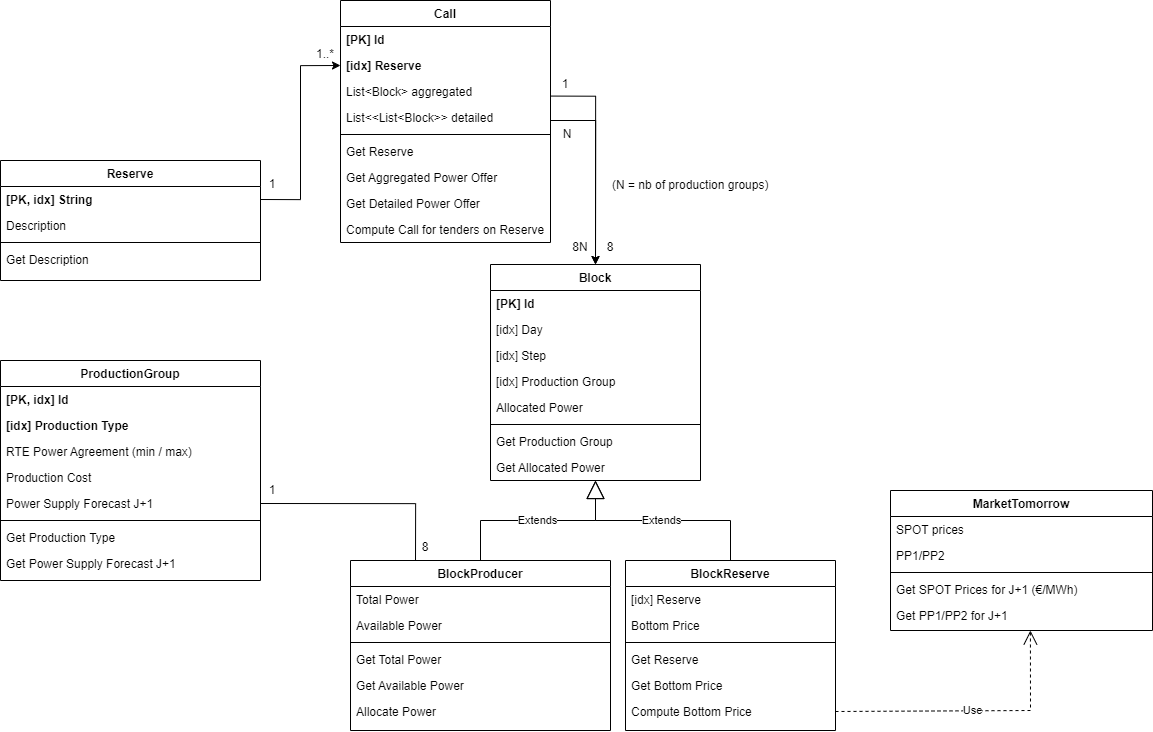
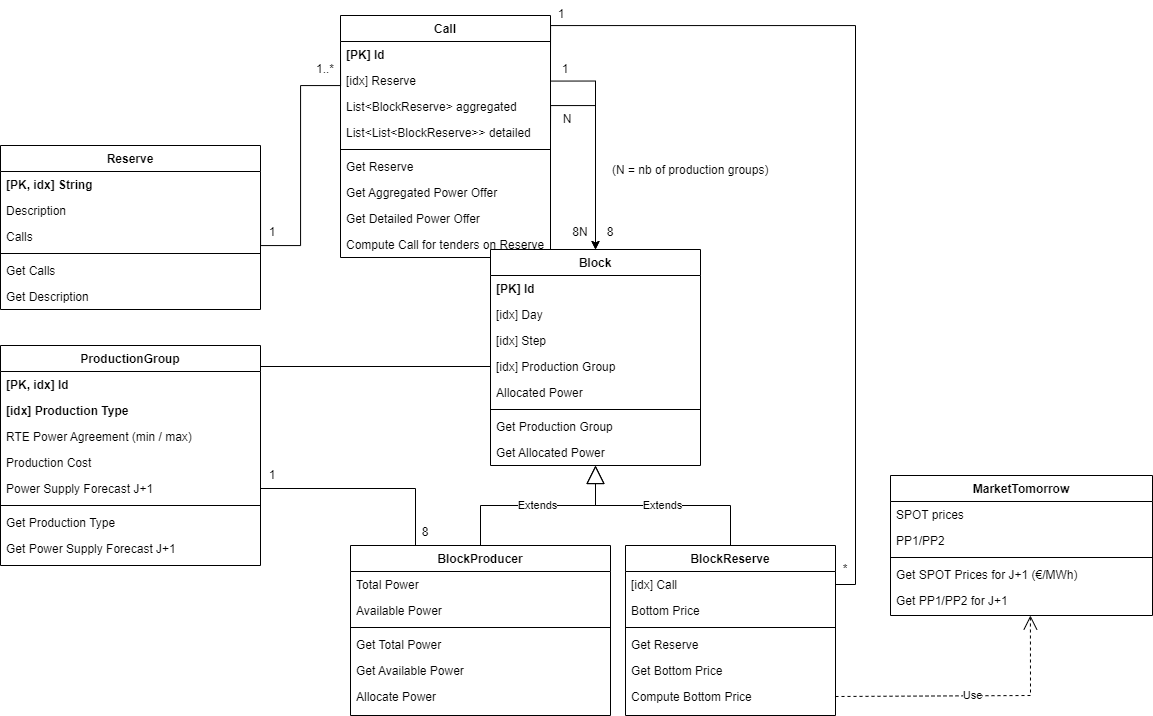
MDD

diff --git a/src/main/java/fr/agregio/call/model/Call.java b/src/main/java/fr/agregio/call/model/Call.java
@@ -1,0 +1,37 @@
+package fr.agregio.call.model;
+
+import jakarta.persistence.*;
+import lombok.AllArgsConstructor;
+import lombok.Getter;
+import lombok.NoArgsConstructor;
+import lombok.Setter;
+
+import java.util.ArrayList;
+import java.util.List;
+
+@AllArgsConstructor
+@NoArgsConstructor
+@Getter
+@Setter
+@Entity
+@Table(name = "call")
+public class Call {
+    @Id
+    @GeneratedValue(strategy = GenerationType.AUTO)
+    @Column(name = "id", nullable = false)
+    private Long id;
+
+    @ManyToOne(cascade = CascadeType.ALL, optional = false)
+    @JoinColumn(name = "reserve_id", nullable = false)
+    private Reserve reserve;
+
+    @OneToMany(mappedBy = "call", cascade = CascadeType.ALL, orphanRemoval = true)
+    private List<BlockReserve> blockReserves = new ArrayList<>();
+
+    @Transient
+    private List<BlockReserve> aggregatedBlockReserves;
+
+    @Transient
+    private List<List<BlockReserve>> detailedBlockReserves;
+
+}

diff --git a/src/main/java/fr/agregio/call/model/BlockReserve.java b/src/main/java/fr/agregio/call/model/BlockReserve.java
@@ -16,13 +16,13 @@ import org.hibernate.type.SqlTypes;
 @Entity
 @Table(name = "block_reserve")
 public class BlockReserve extends Block {
-    @ManyToOne(cascade = CascadeType.ALL, optional = false)
-    @JoinColumn(name = "reserve_id", nullable = false)
-    private Reserve reserve;
-
     @Column(name = "bottom_price", nullable = false)
     @JdbcTypeCode(SqlTypes.VARCHAR)
     private Double bottomPrice;
+
+    @ManyToOne(cascade = CascadeType.ALL, optional = false)
+    @JoinColumn(name = "call_id", nullable = false)
+    private Call call;
 
     public void computeBottomPrice(MarketTomorrowDto marketTomorrow) {
         //TODO implement method to compute market price

diff --git a/src/main/java/fr/agregio/call/model/ProductionGroup.java b/src/main/java/fr/agregio/call/model/ProductionGroup.java
@@ -12,6 +12,9 @@ import lombok.Setter;
 import org.hibernate.annotations.JdbcTypeCode;
 import org.hibernate.type.SqlTypes;
 
+import java.util.ArrayList;
+import java.util.List;
+
 @AllArgsConstructor
 @NoArgsConstructor
 @Getter
@@ -44,4 +47,6 @@ public class ProductionGroup {
     @JoinColumn(name = "power_agreement_id", nullable = false, unique = true)
     private PowerAgreement powerAgreement;
 
+    @OneToMany(mappedBy = "productionGroup", orphanRemoval = true)
+    private List<BlockProducer> blockProducerForecast = new ArrayList<>();
 }

diff --git a/src/main/java/fr/agregio/call/model/Reserve.java b/src/main/java/fr/agregio/call/model/Reserve.java
@@ -9,6 +9,9 @@ import lombok.Setter;
 import org.hibernate.annotations.JdbcTypeCode;
 import org.hibernate.type.SqlTypes;
 
+import java.util.ArrayList;
+import java.util.List;
+
 @Getter
 @Setter
 @Entity
@@ -26,4 +29,6 @@ public class Reserve {
     @JdbcTypeCode(SqlTypes.VARCHAR)
     private String description;
 
+    @OneToMany(mappedBy = "reserve", cascade = CascadeType.ALL, orphanRemoval = true)
+    private List<Call> calls = new ArrayList<>();
 }
